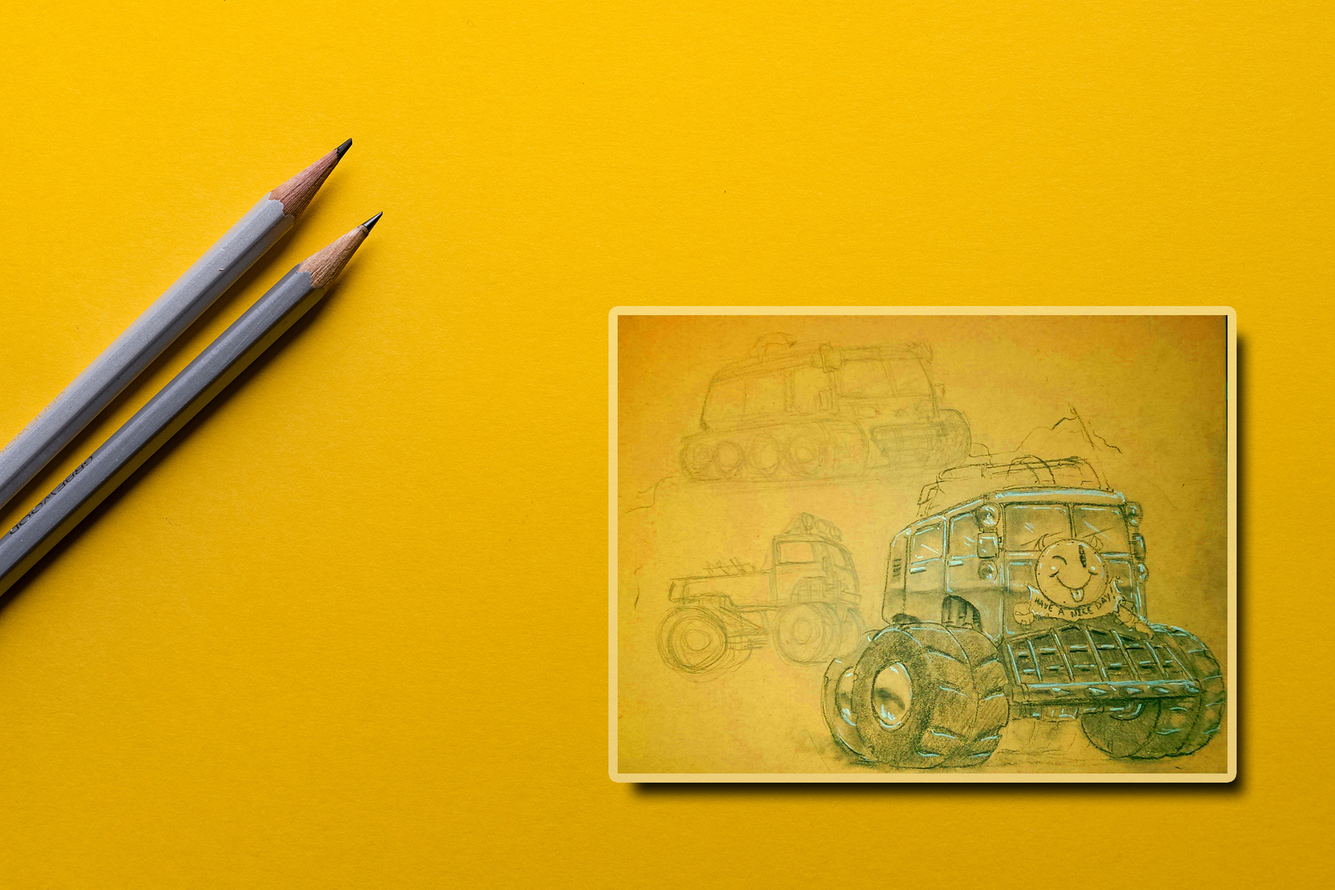
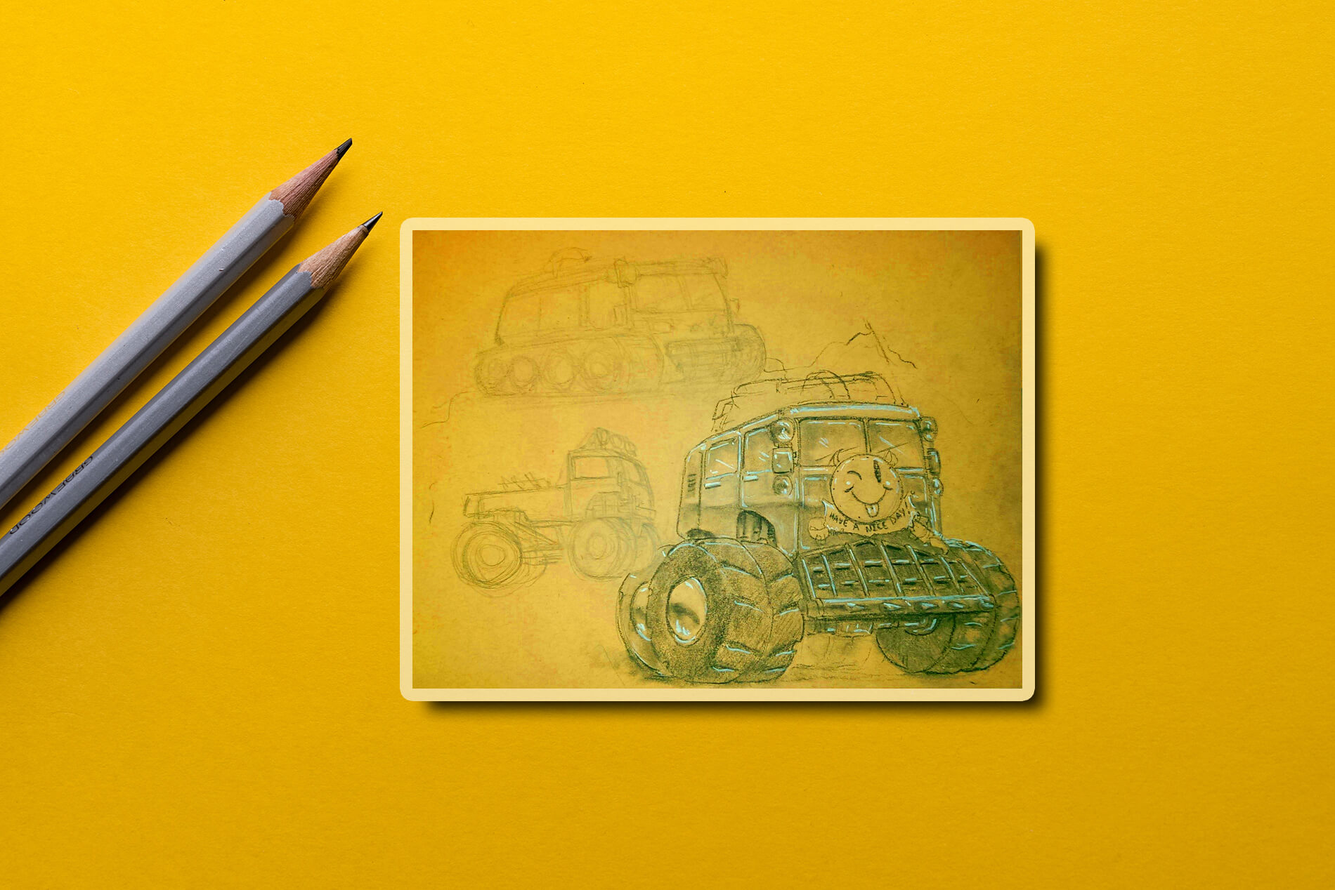
adjust bg

diff --git a/index.html b/index.html
@@ -43,10 +43,7 @@
     <!-- Header -->
     <header class="masthead d-flex">
       <div class="container text-center my-auto">
-        <h1 class="mb-1">Paomo Dynamics</h1>
-        <h2 class="mb-5">
-          <em>Computer Graphics/Mixed Reality Lab</em>
-        </h2>
+        <div class="col-lg-12"><img src="img/pd_title.png" style="width: auto"></div>
         <!--<a class="btn btn-primary btn-xl js-scroll-trigger" target=_blank href="http://www.tinkrinc.com">Find Out More</a>-->
       </div>
       <div class="overlay"></div>
@@ -57,7 +54,7 @@
     <section class="content-section" id="portfolio">
       <div class="container">
         <div class="content-section-heading text-center">
-                <h3 class="text-secondary mb-0">VR/AR, Games, WebApp</h3>
+                <h3 class="text-secondary mb-0">VR/AR, Games, Apps</h3>
           <h2 class="mb-5">Recent Projects</h2>
 
         </div>
